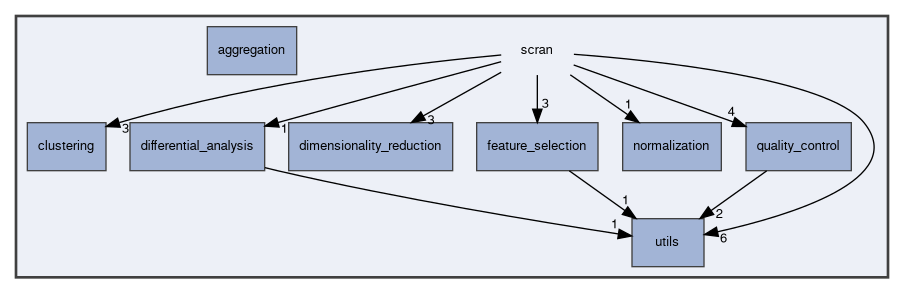
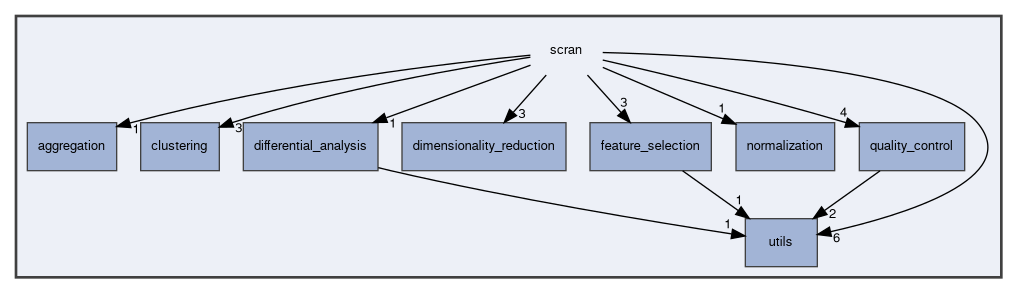
Deploying to gh-pages from @ LTLA/libscran@971400303c6ac39d52b9f7a9ca6b90267d74951d 🚀

diff --git a/docs/scran_8hpp_source.html b/docs/scran_8hpp_source.html
@@ -74,26 +74,28 @@ $(function() {
 <div class="fragment"><div class="line"><a id="l00001" name="l00001"></a><span class="lineno">    1</span><span class="preprocessor">#ifndef SCRAN_SCRAN_HPP</span></div>
 <div class="line"><a id="l00002" name="l00002"></a><span class="lineno">    2</span><span class="preprocessor">#define SCRAN_SCRAN_HPP</span></div>
 <div class="line"><a id="l00003" name="l00003"></a><span class="lineno">    3</span> </div>
-<div class="line"><a id="l00004" name="l00004"></a><span class="lineno">    4</span><span class="preprocessor">#include &quot;<a class="code" href="BuildSNNGraph_8hpp.html">clustering/BuildSNNGraph.hpp</a>&quot;</span></div>
-<div class="line"><a id="l00005" name="l00005"></a><span class="lineno">    5</span><span class="preprocessor">#include &quot;<a class="code" href="ClusterKmeans_8hpp.html">clustering/ClusterKmeans.hpp</a>&quot;</span></div>
-<div class="line"><a id="l00006" name="l00006"></a><span class="lineno">    6</span><span class="preprocessor">#include &quot;<a class="code" href="ClusterSNNGraph_8hpp.html">clustering/ClusterSNNGraph.hpp</a>&quot;</span></div>
-<div class="line"><a id="l00007" name="l00007"></a><span class="lineno">    7</span><span class="preprocessor">#include &quot;<a class="code" href="ScoreMarkers_8hpp.html">differential_analysis/ScoreMarkers.hpp</a>&quot;</span></div>
-<div class="line"><a id="l00008" name="l00008"></a><span class="lineno">    8</span><span class="preprocessor">#include &quot;<a class="code" href="BlockedPCA_8hpp.html">dimensionality_reduction/BlockedPCA.hpp</a>&quot;</span></div>
-<div class="line"><a id="l00009" name="l00009"></a><span class="lineno">    9</span><span class="preprocessor">#include &quot;<a class="code" href="MultiBatchPCA_8hpp.html">dimensionality_reduction/MultiBatchPCA.hpp</a>&quot;</span></div>
-<div class="line"><a id="l00010" name="l00010"></a><span class="lineno">   10</span><span class="preprocessor">#include &quot;<a class="code" href="RunPCA_8hpp.html">dimensionality_reduction/RunPCA.hpp</a>&quot;</span></div>
-<div class="line"><a id="l00011" name="l00011"></a><span class="lineno">   11</span><span class="preprocessor">#include &quot;<a class="code" href="ChooseHVGs_8hpp.html">feature_selection/ChooseHVGs.hpp</a>&quot;</span></div>
-<div class="line"><a id="l00012" name="l00012"></a><span class="lineno">   12</span><span class="preprocessor">#include &quot;<a class="code" href="FitTrendVar_8hpp.html">feature_selection/FitTrendVar.hpp</a>&quot;</span></div>
-<div class="line"><a id="l00013" name="l00013"></a><span class="lineno">   13</span><span class="preprocessor">#include &quot;<a class="code" href="ModelGeneVar_8hpp.html">feature_selection/ModelGeneVar.hpp</a>&quot;</span></div>
-<div class="line"><a id="l00014" name="l00014"></a><span class="lineno">   14</span><span class="preprocessor">#include &quot;<a class="code" href="LogNormCounts_8hpp.html">normalization/LogNormCounts.hpp</a>&quot;</span></div>
-<div class="line"><a id="l00015" name="l00015"></a><span class="lineno">   15</span><span class="preprocessor">#include &quot;<a class="code" href="FilterCells_8hpp.html">quality_control/FilterCells.hpp</a>&quot;</span></div>
-<div class="line"><a id="l00016" name="l00016"></a><span class="lineno">   16</span><span class="preprocessor">#include &quot;<a class="code" href="IsOutlier_8hpp.html">quality_control/IsOutlier.hpp</a>&quot;</span></div>
-<div class="line"><a id="l00017" name="l00017"></a><span class="lineno">   17</span><span class="preprocessor">#include &quot;<a class="code" href="PerCellQCFilters_8hpp.html">quality_control/PerCellQCFilters.hpp</a>&quot;</span></div>
-<div class="line"><a id="l00018" name="l00018"></a><span class="lineno">   18</span><span class="preprocessor">#include &quot;<a class="code" href="PerCellQCMetrics_8hpp.html">quality_control/PerCellQCMetrics.hpp</a>&quot;</span></div>
-<div class="line"><a id="l00019" name="l00019"></a><span class="lineno">   19</span><span class="preprocessor">#include &quot;<a class="code" href="average__vectors_8hpp.html">utils/average_vectors.hpp</a>&quot;</span></div>
-<div class="line"><a id="l00020" name="l00020"></a><span class="lineno">   20</span><span class="preprocessor">#include &quot;utils/subset_vector.hpp&quot;</span></div>
-<div class="line"><a id="l00021" name="l00021"></a><span class="lineno">   21</span><span class="preprocessor">#include &quot;<a class="code" href="vector__to__pointers_8hpp.html">utils/vector_to_pointers.hpp</a>&quot;</span></div>
-<div class="line"><a id="l00022" name="l00022"></a><span class="lineno">   22</span> </div>
-<div class="line"><a id="l00023" name="l00023"></a><span class="lineno">   23</span><span class="preprocessor">#endif</span></div>
+<div class="line"><a id="l00004" name="l00004"></a><span class="lineno">    4</span><span class="preprocessor">#include &quot;<a class="code" href="AggregateAcrossCells_8hpp.html">aggregation/AggregateAcrossCells.hpp</a>&quot;</span></div>
+<div class="line"><a id="l00005" name="l00005"></a><span class="lineno">    5</span><span class="preprocessor">#include &quot;<a class="code" href="BuildSNNGraph_8hpp.html">clustering/BuildSNNGraph.hpp</a>&quot;</span></div>
+<div class="line"><a id="l00006" name="l00006"></a><span class="lineno">    6</span><span class="preprocessor">#include &quot;<a class="code" href="ClusterKmeans_8hpp.html">clustering/ClusterKmeans.hpp</a>&quot;</span></div>
+<div class="line"><a id="l00007" name="l00007"></a><span class="lineno">    7</span><span class="preprocessor">#include &quot;<a class="code" href="ClusterSNNGraph_8hpp.html">clustering/ClusterSNNGraph.hpp</a>&quot;</span></div>
+<div class="line"><a id="l00008" name="l00008"></a><span class="lineno">    8</span><span class="preprocessor">#include &quot;<a class="code" href="ScoreMarkers_8hpp.html">differential_analysis/ScoreMarkers.hpp</a>&quot;</span></div>
+<div class="line"><a id="l00009" name="l00009"></a><span class="lineno">    9</span><span class="preprocessor">#include &quot;<a class="code" href="BlockedPCA_8hpp.html">dimensionality_reduction/BlockedPCA.hpp</a>&quot;</span></div>
+<div class="line"><a id="l00010" name="l00010"></a><span class="lineno">   10</span><span class="preprocessor">#include &quot;<a class="code" href="MultiBatchPCA_8hpp.html">dimensionality_reduction/MultiBatchPCA.hpp</a>&quot;</span></div>
+<div class="line"><a id="l00011" name="l00011"></a><span class="lineno">   11</span><span class="preprocessor">#include &quot;<a class="code" href="RunPCA_8hpp.html">dimensionality_reduction/RunPCA.hpp</a>&quot;</span></div>
+<div class="line"><a id="l00012" name="l00012"></a><span class="lineno">   12</span><span class="preprocessor">#include &quot;<a class="code" href="ChooseHVGs_8hpp.html">feature_selection/ChooseHVGs.hpp</a>&quot;</span></div>
+<div class="line"><a id="l00013" name="l00013"></a><span class="lineno">   13</span><span class="preprocessor">#include &quot;<a class="code" href="FitTrendVar_8hpp.html">feature_selection/FitTrendVar.hpp</a>&quot;</span></div>
+<div class="line"><a id="l00014" name="l00014"></a><span class="lineno">   14</span><span class="preprocessor">#include &quot;<a class="code" href="ModelGeneVar_8hpp.html">feature_selection/ModelGeneVar.hpp</a>&quot;</span></div>
+<div class="line"><a id="l00015" name="l00015"></a><span class="lineno">   15</span><span class="preprocessor">#include &quot;<a class="code" href="LogNormCounts_8hpp.html">normalization/LogNormCounts.hpp</a>&quot;</span></div>
+<div class="line"><a id="l00016" name="l00016"></a><span class="lineno">   16</span><span class="preprocessor">#include &quot;<a class="code" href="FilterCells_8hpp.html">quality_control/FilterCells.hpp</a>&quot;</span></div>
+<div class="line"><a id="l00017" name="l00017"></a><span class="lineno">   17</span><span class="preprocessor">#include &quot;<a class="code" href="IsOutlier_8hpp.html">quality_control/IsOutlier.hpp</a>&quot;</span></div>
+<div class="line"><a id="l00018" name="l00018"></a><span class="lineno">   18</span><span class="preprocessor">#include &quot;<a class="code" href="PerCellQCFilters_8hpp.html">quality_control/PerCellQCFilters.hpp</a>&quot;</span></div>
+<div class="line"><a id="l00019" name="l00019"></a><span class="lineno">   19</span><span class="preprocessor">#include &quot;<a class="code" href="PerCellQCMetrics_8hpp.html">quality_control/PerCellQCMetrics.hpp</a>&quot;</span></div>
+<div class="line"><a id="l00020" name="l00020"></a><span class="lineno">   20</span><span class="preprocessor">#include &quot;<a class="code" href="average__vectors_8hpp.html">utils/average_vectors.hpp</a>&quot;</span></div>
+<div class="line"><a id="l00021" name="l00021"></a><span class="lineno">   21</span><span class="preprocessor">#include &quot;utils/subset_vector.hpp&quot;</span></div>
+<div class="line"><a id="l00022" name="l00022"></a><span class="lineno">   22</span><span class="preprocessor">#include &quot;<a class="code" href="vector__to__pointers_8hpp.html">utils/vector_to_pointers.hpp</a>&quot;</span></div>
+<div class="line"><a id="l00023" name="l00023"></a><span class="lineno">   23</span> </div>
+<div class="line"><a id="l00024" name="l00024"></a><span class="lineno">   24</span><span class="preprocessor">#endif</span></div>
+<div class="ttc" id="aAggregateAcrossCells_8hpp_html"><div class="ttname"><a href="AggregateAcrossCells_8hpp.html">AggregateAcrossCells.hpp</a></div><div class="ttdoc">Aggregate expression values across cells.</div></div>
 <div class="ttc" id="aBlockedPCA_8hpp_html"><div class="ttname"><a href="BlockedPCA_8hpp.html">BlockedPCA.hpp</a></div><div class="ttdoc">Compute PCA after blocking on an uninteresting factor.</div></div>
 <div class="ttc" id="aBuildSNNGraph_8hpp_html"><div class="ttname"><a href="BuildSNNGraph_8hpp.html">BuildSNNGraph.hpp</a></div><div class="ttdoc">Build a shared nearest-neighbor graph on the cells.</div></div>
 <div class="ttc" id="aChooseHVGs_8hpp_html"><div class="ttname"><a href="ChooseHVGs_8hpp.html">ChooseHVGs.hpp</a></div><div class="ttdoc">Choose highly variable genes for downstream analyses.</div></div>

diff --git a/docs/dir_bdabb9492db2368b3caf0f4c1df6a160.html b/docs/dir_bdabb9492db2368b3caf0f4c1df6a160.html
@@ -76,25 +76,26 @@ Directory dependency graph for scran:</div>
 <div class="dyncontent">
 <div class="center"><img src="dir_bdabb9492db2368b3caf0f4c1df6a160_dep.png" border="0" usemap="#adir__bdabb9492db2368b3caf0f4c1df6a160__dep" alt="scran"/></div>
 <map name="adir__bdabb9492db2368b3caf0f4c1df6a160__dep" id="adir__bdabb9492db2368b3caf0f4c1df6a160__dep">
-<area shape="rect" href="dir_b9c0c73449df2552798dd527c166079a.html" title="clustering" alt="" coords="27,123,106,171"/>
-<area shape="rect" href="dir_000007_000001.html" title="3" alt="" coords="122,122,130,137"/>
-<area shape="rect" href="dir_5c004853bad6ab3a8f76ad7dc1616b3a.html" title="differential_analysis" alt="" coords="130,123,265,171"/>
-<area shape="rect" href="dir_000007_000002.html" title="1" alt="" coords="281,122,289,137"/>
-<area shape="rect" href="dir_6c11624c6c89844001e5465ee4c99700.html" title="dimensionality_reduction" alt="" coords="289,123,453,171"/>
-<area shape="rect" href="dir_000007_000003.html" title="3" alt="" coords="427,114,435,128"/>
-<area shape="rect" href="dir_89f4aaee108a3fca742f66525cf8ceec.html" title="feature_selection" alt="" coords="477,123,598,171"/>
-<area shape="rect" href="dir_000007_000004.html" title="3" alt="" coords="542,97,550,112"/>
-<area shape="rect" href="dir_90076e234ef62b415e95b87bcd1951d2.html" title="normalization" alt="" coords="623,123,721,171"/>
-<area shape="rect" href="dir_000007_000005.html" title="1" alt="" coords="625,98,633,112"/>
-<area shape="rect" href="dir_27102e7a2ab5e31622cdf02f448a2baa.html" title="quality_control" alt="" coords="746,123,851,171"/>
-<area shape="rect" href="dir_000007_000006.html" title="4" alt="" coords="728,105,736,120"/>
-<area shape="rect" href="dir_9b9de28a72409b9bd6e78458203d0167.html" title="utils" alt="" coords="632,219,704,267"/>
-<area shape="rect" href="dir_000007_000008.html" title="6" alt="" coords="720,232,728,246"/>
-<area shape="rect" href="dir_e002ff1ea291957e76cbcff806ec28a3.html" title="aggregation" alt="" coords="207,27,297,75"/>
-<area shape="rect" href="dir_000002_000008.html" title="1" alt="" coords="611,218,619,232"/>
-<area shape="rect" href="dir_000004_000008.html" title="1" alt="" coords="622,194,630,208"/>
-<area shape="rect" href="dir_000006_000008.html" title="2" alt="" coords="716,207,724,222"/>
-<area shape="rect" href="dir_bdabb9492db2368b3caf0f4c1df6a160.html" alt="" coords="16,16,888,277"/>
+<area shape="rect" href="dir_e002ff1ea291957e76cbcff806ec28a3.html" title="aggregation" alt="" coords="27,123,117,171"/>
+<area shape="rect" href="dir_000007_000000.html" title="1" alt="" coords="132,123,140,137"/>
+<area shape="rect" href="dir_b9c0c73449df2552798dd527c166079a.html" title="clustering" alt="" coords="141,123,219,171"/>
+<area shape="rect" href="dir_000007_000001.html" title="3" alt="" coords="235,122,243,136"/>
+<area shape="rect" href="dir_5c004853bad6ab3a8f76ad7dc1616b3a.html" title="differential_analysis" alt="" coords="243,123,378,171"/>
+<area shape="rect" href="dir_000007_000002.html" title="1" alt="" coords="389,117,397,132"/>
+<area shape="rect" href="dir_6c11624c6c89844001e5465ee4c99700.html" title="dimensionality_reduction" alt="" coords="402,123,566,171"/>
+<area shape="rect" href="dir_000007_000003.html" title="3" alt="" coords="519,107,527,122"/>
+<area shape="rect" href="dir_89f4aaee108a3fca742f66525cf8ceec.html" title="feature_selection" alt="" coords="590,123,711,171"/>
+<area shape="rect" href="dir_000007_000004.html" title="3" alt="" coords="620,96,628,111"/>
+<area shape="rect" href="dir_90076e234ef62b415e95b87bcd1951d2.html" title="normalization" alt="" coords="736,123,835,171"/>
+<area shape="rect" href="dir_000007_000005.html" title="1" alt="" coords="718,102,726,117"/>
+<area shape="rect" href="dir_27102e7a2ab5e31622cdf02f448a2baa.html" title="quality_control" alt="" coords="859,123,965,171"/>
+<area shape="rect" href="dir_000007_000006.html" title="4" alt="" coords="840,106,848,121"/>
+<area shape="rect" href="dir_9b9de28a72409b9bd6e78458203d0167.html" title="utils" alt="" coords="745,219,817,267"/>
+<area shape="rect" href="dir_000007_000008.html" title="6" alt="" coords="833,232,841,246"/>
+<area shape="rect" href="dir_000002_000008.html" title="1" alt="" coords="724,218,732,232"/>
+<area shape="rect" href="dir_000004_000008.html" title="1" alt="" coords="735,194,743,208"/>
+<area shape="rect" href="dir_000006_000008.html" title="2" alt="" coords="829,207,837,222"/>
+<area shape="rect" href="dir_bdabb9492db2368b3caf0f4c1df6a160.html" alt="" coords="16,16,1001,277"/>
 </map>
 </div>
 <table class="memberdecls">

diff --git a/docs/dir_000007_000000.html b/docs/dir_000007_000000.html
@@ -1,0 +1,77 @@
+<!DOCTYPE html PUBLIC "-//W3C//DTD XHTML 1.0 Transitional//EN" "https://www.w3.org/TR/xhtml1/DTD/xhtml1-transitional.dtd">
+<html xmlns="http://www.w3.org/1999/xhtml">
+<head>
+<meta http-equiv="Content-Type" content="text/xhtml;charset=UTF-8"/>
+<meta http-equiv="X-UA-Compatible" content="IE=11"/>
+<meta name="generator" content="Doxygen 1.9.3"/>
+<meta name="viewport" content="width=device-width, initial-scale=1"/>
+<title>scran: scran -&gt; aggregation Relation</title>
+<link href="tabs.css" rel="stylesheet" type="text/css"/>
+<script type="text/javascript" src="jquery.js"></script>
+<script type="text/javascript" src="dynsections.js"></script>
+<link href="search/search.css" rel="stylesheet" type="text/css"/>
+<script type="text/javascript" src="search/searchdata.js"></script>
+<script type="text/javascript" src="search/search.js"></script>
+<link href="doxygen.css" rel="stylesheet" type="text/css" />
+<link href="doxygen-awesome.css" rel="stylesheet" type="text/css"/>
+</head>
+<body>
+<div id="top"><!-- do not remove this div, it is closed by doxygen! -->
+<div id="titlearea">
+<table cellspacing="0" cellpadding="0">
+ <tbody>
+ <tr id="projectrow">
+  <td id="projectalign">
+   <div id="projectname">scran
+   </div>
+   <div id="projectbrief">C++ library for basic single-cell RNA-seq analyses</div>
+  </td>
+ </tr>
+ </tbody>
+</table>
+</div>
+<!-- end header part -->
+<!-- Generated by Doxygen 1.9.3 -->
+<script type="text/javascript">
+/* @license magnet:?xt=urn:btih:d3d9a9a6595521f9666a5e94cc830dab83b65699&amp;dn=expat.txt MIT */
+var searchBox = new SearchBox("searchBox", "search",'Search','.html');
+/* @license-end */
+</script>
+<script type="text/javascript" src="menudata.js"></script>
+<script type="text/javascript" src="menu.js"></script>
+<script type="text/javascript">
+/* @license magnet:?xt=urn:btih:d3d9a9a6595521f9666a5e94cc830dab83b65699&amp;dn=expat.txt MIT */
+$(function() {
+  initMenu('',true,false,'search.php','Search');
+  $(document).ready(function() { init_search(); });
+});
+/* @license-end */
+</script>
+<div id="main-nav"></div>
+<!-- window showing the filter options -->
+<div id="MSearchSelectWindow"
+     onmouseover="return searchBox.OnSearchSelectShow()"
+     onmouseout="return searchBox.OnSearchSelectHide()"
+     onkeydown="return searchBox.OnSearchSelectKey(event)">
+</div>
+
+<!-- iframe showing the search results (closed by default) -->
+<div id="MSearchResultsWindow">
+<iframe src="javascript:void(0)" frameborder="0" 
+        name="MSearchResults" id="MSearchResults">
+</iframe>
+</div>
+
+<div id="nav-path" class="navpath">
+  <ul>
+<li class="navelem"><a class="el" href="dir_bdabb9492db2368b3caf0f4c1df6a160.html">scran</a></li>  </ul>
+</div>
+</div><!-- top -->
+<div class="contents">
+<h3>scran &rarr; aggregation Relation</h3><table class="dirtab"><tr class="dirtab"><th class="dirtab">File in scran</th><th class="dirtab">Includes file in scran/aggregation</th></tr><tr class="dirtab"><td class="dirtab"><b>scran.hpp</b></td><td class="dirtab"><a class="el" href="AggregateAcrossCells_8hpp.html">AggregateAcrossCells.hpp</a></td></tr></table></div><!-- contents -->
+<!-- start footer part -->
+<hr class="footer"/><address class="footer"><small>
+Generated by&#160;<a href="https://www.doxygen.org/index.html"><img class="footer" src="doxygen.svg" width="104" height="31" alt="doxygen"/></a> 1.9.3
+</small></address>
+</body>
+</html>

diff --git a/docs/AggregateAcrossCells_8hpp.html b/docs/AggregateAcrossCells_8hpp.html
@@ -93,6 +93,15 @@ Include dependency graph for AggregateAcrossCells.hpp:</div>
 <area shape="rect" title=" " alt="" coords="104,169,187,196"/>
 </map>
 </div>
+</div><div class="textblock"><div class="dynheader">
+This graph shows which files directly or indirectly include this file:</div>
+<div class="dyncontent">
+<div class="center"><img src="AggregateAcrossCells_8hpp__dep__incl.png" border="0" usemap="#ascran_2aggregation_2AggregateAcrossCells_8hppdep" alt=""/></div>
+<map name="ascran_2aggregation_2AggregateAcrossCells_8hppdep" id="ascran_2aggregation_2AggregateAcrossCells_8hppdep">
+<area shape="rect" title="Aggregate expression values across cells." alt="" coords="5,5,193,47"/>
+<area shape="rect" href="scran_8hpp_source.html" title=" " alt="" coords="42,95,157,121"/>
+</map>
+</div>
 </div>
 <p><a href="AggregateAcrossCells_8hpp_source.html">Go to the source code of this file.</a></p>
 <table class="memberdecls">
